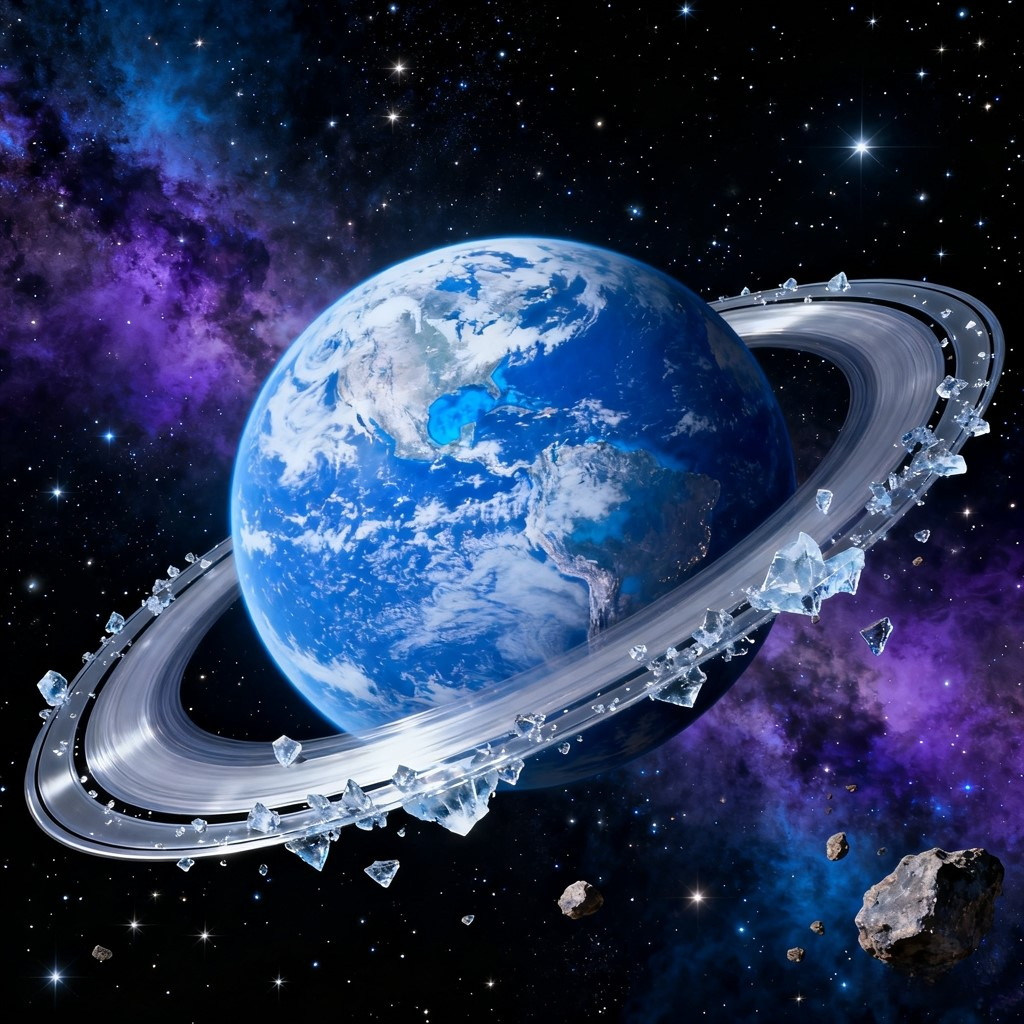
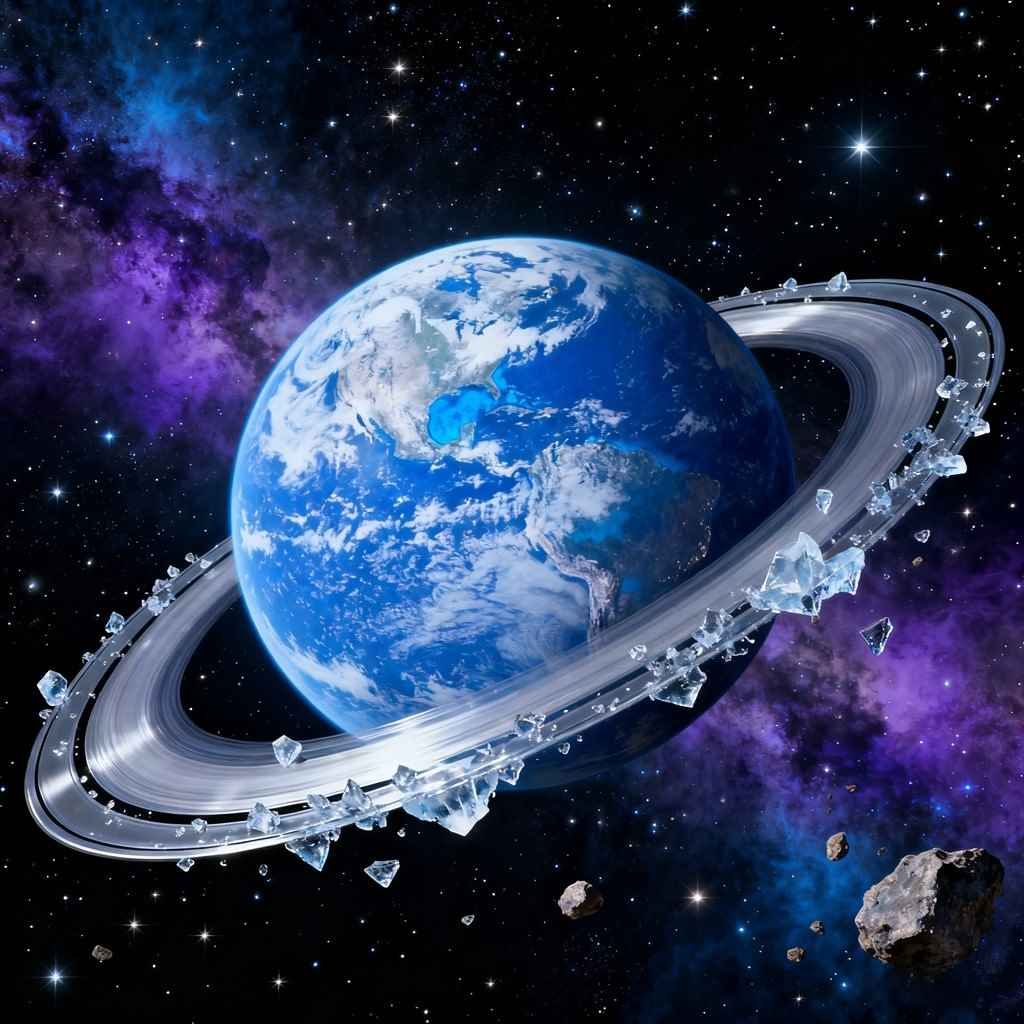
docs(blog): 添加博客操作指南文档
新增博客操作指南，包含新建文章、发布文章及增加预览背景图的步骤说明。
同时更新了默认封面背景图片资源。

Changed region(s): [[0.8438, 0.5938, 0.875, 0.625], [0.2812, 0.8125, 0.3125, 0.8438], [0.0938, 0.5938, 0.125, 0.625]]

diff --git a/source/_drafts/本博客操作指南.md b/source/_drafts/本博客操作指南.md
@@ -1,0 +1,28 @@
+---
+title: 本博客操作指南
+tags:
+---
+
+## 新建文章
+
+打开命令行
+```
+hexo new "文章标题"
+```
+
+创建完成之后，打开 `source/_posts` 文件夹，可以看到新建的文章。
+
+## 发布文章
+
+```
+git add *
+git commit -m "提交信息"
+git push
+```
+
+github 通过 webhook 自动部署，文章发布（workflows/pages.yml）。
+
+## 增加预览背景图
+
+1. 图片存放在 `source/img/default-cover-bg-n.jpg`
+2. 修改配置文件 `_config.butterfly.yml`，`cover->default_cover->default-cover-bg-n.jpg`
